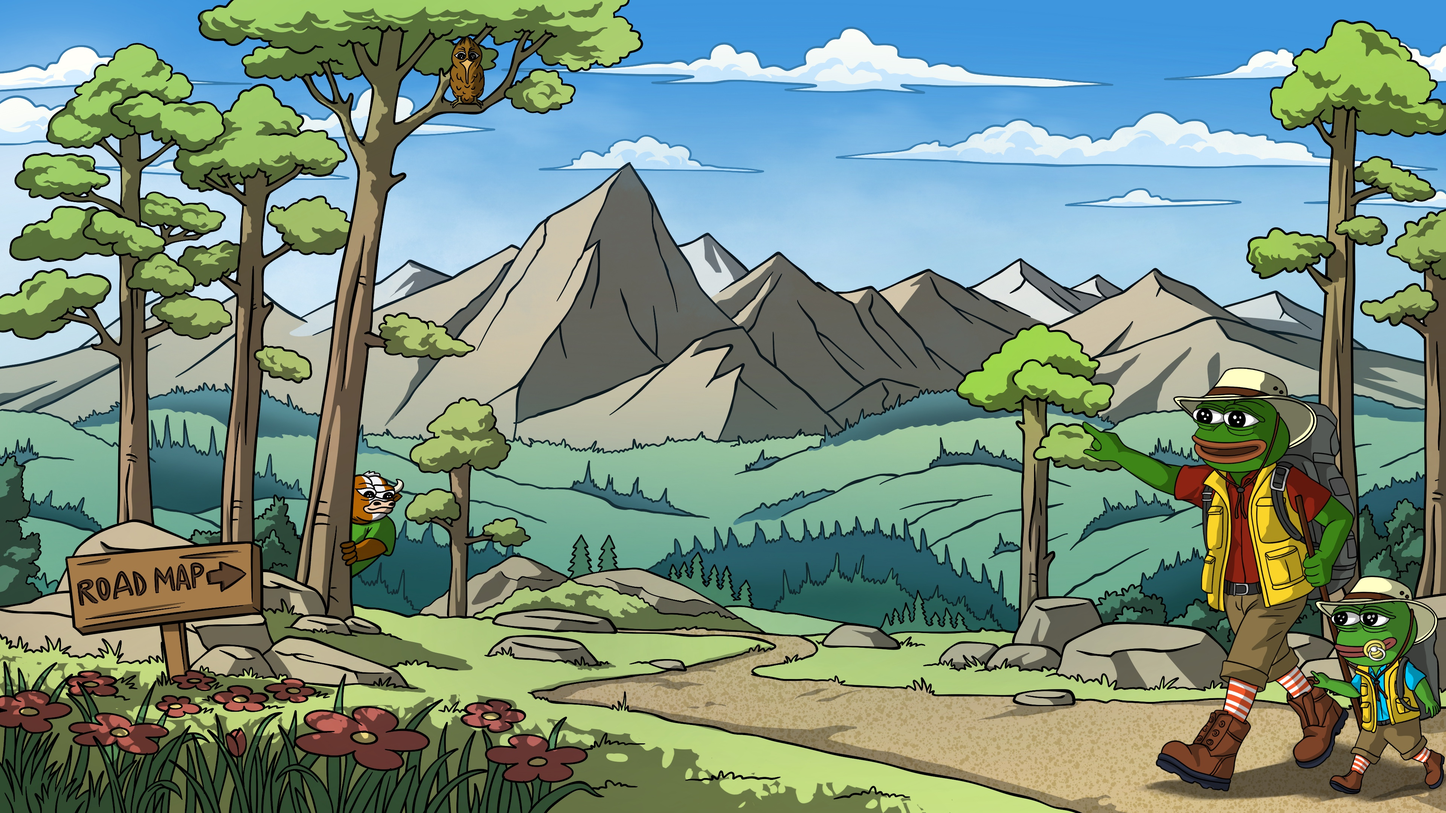
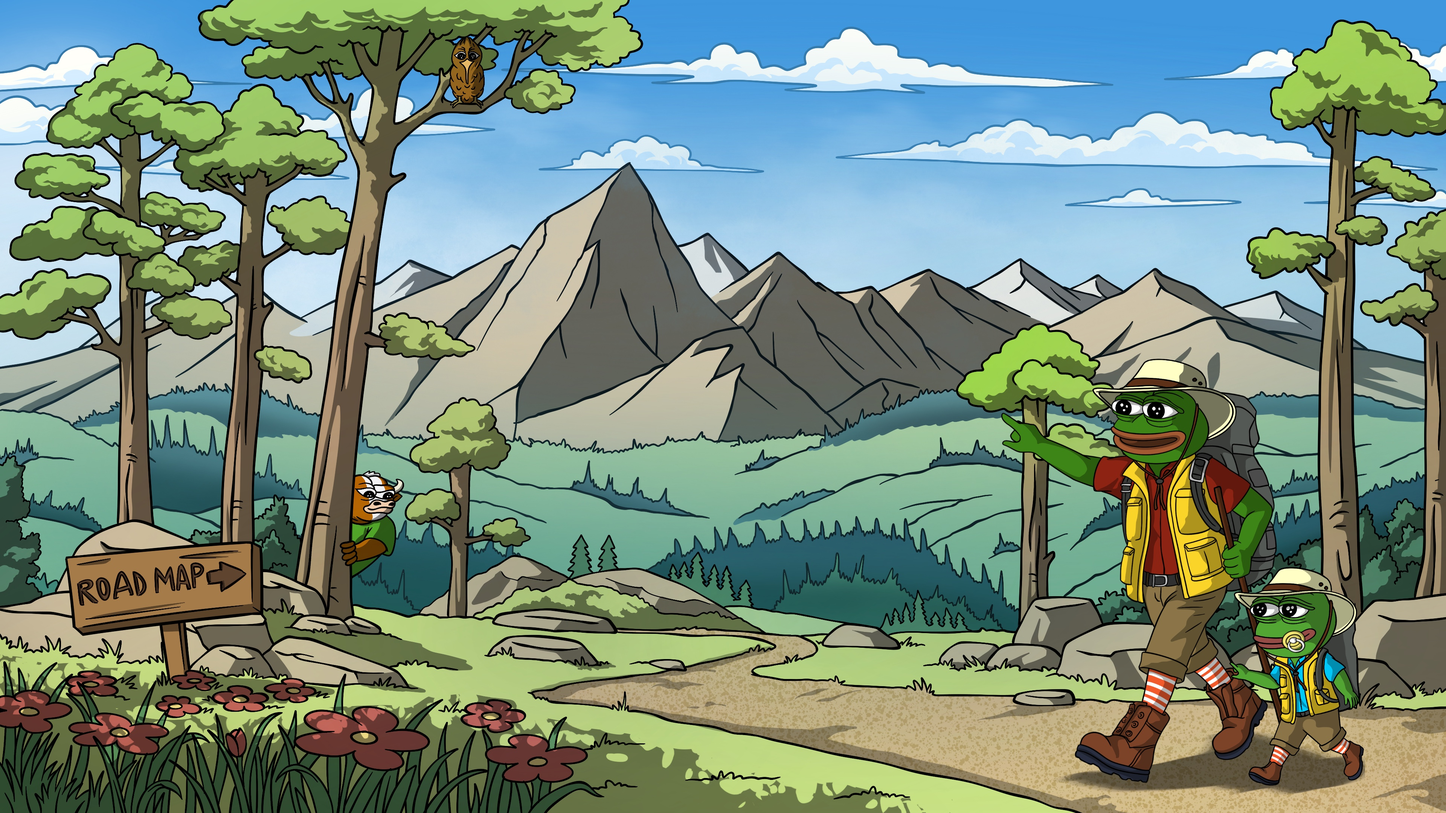
update

Changed region(s): [[0.6875, 0.4343, 1.0, 0.9926]]

diff --git a/src/components/RoadMap.tsx b/src/components/RoadMap.tsx
@@ -57,7 +57,7 @@ const RoadMapSection: React.FC = () => {
     overflow="hidden" // Prevents scrolling
     bgImage="/backgrounds/pepe_hiking.JPG"
     backgroundSize="cover" // Use 'cover' to fill the entire container
-    backgroundPosition="calc(50% + 50%) center" // Shifts the image 10% to the left
+    backgroundPosition="calc(50% + 50%) calc(50% + 40%)"    
     backgroundRepeat="no-repeat"
     //boxShadow="lg" // Optional: Add some shadow for better visuals
   >
